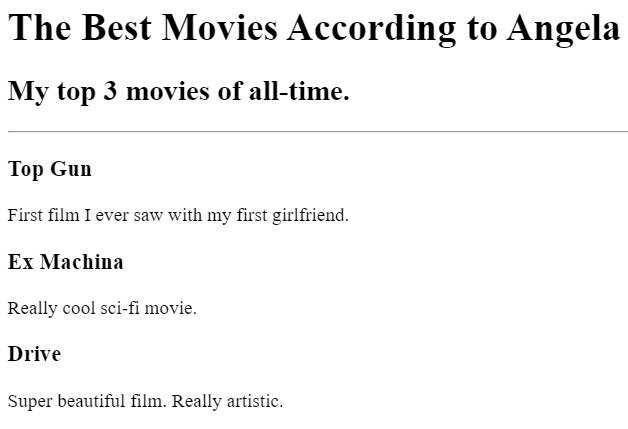
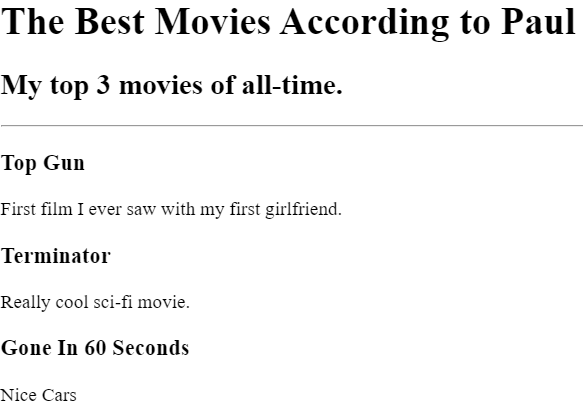
Add files via upload

diff --git a/public/movie-ranking.html b/public/movie-ranking.html
@@ -1,9 +1,9 @@
-<h1>The Best Movies According to Angela</h1>
+<h1>The Best Movies According to Paul</h1>
 <h2>My top 3 movies of all-time.</h2>
 <hr />
 <h3>Top Gun</h3>
 <p>First film I ever saw with my first girlfriend.</p>
-<h3>Ex Machina</h3>
+<h3>Terminator</h3>
 <p>Really cool sci-fi movie.</p>
-<h3>Drive</h3>
-<p>Super beautiful film. Really artistic.</p>
+<h3>Gone In 60 Seconds</h3>
+<p>Nice Cars</p>
